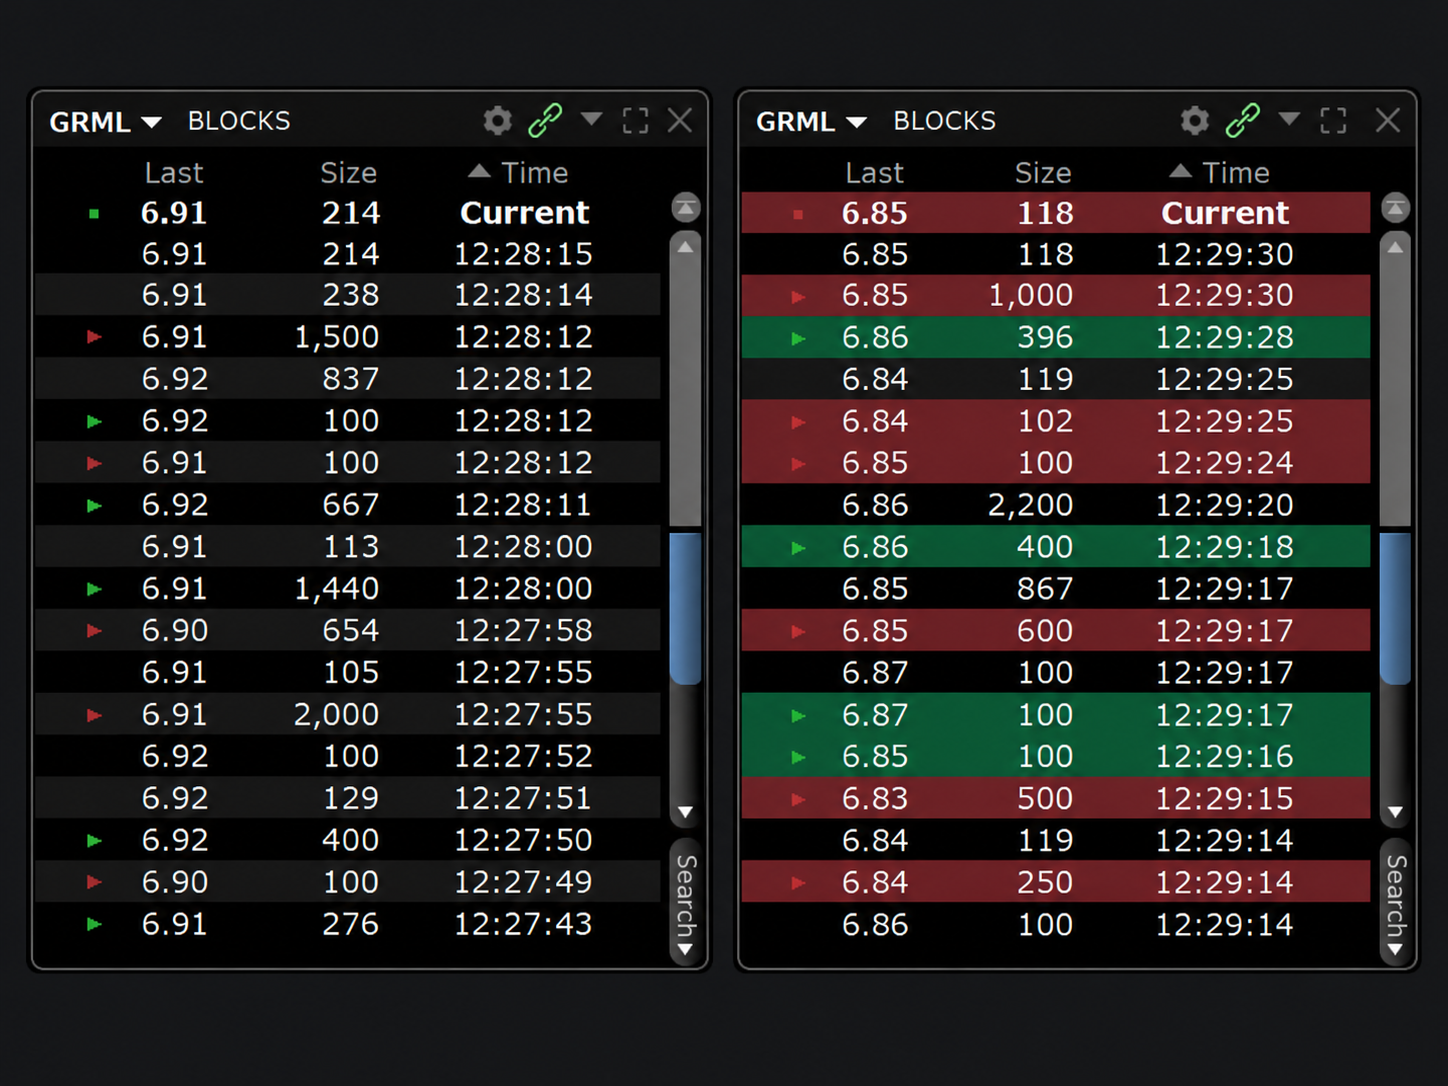
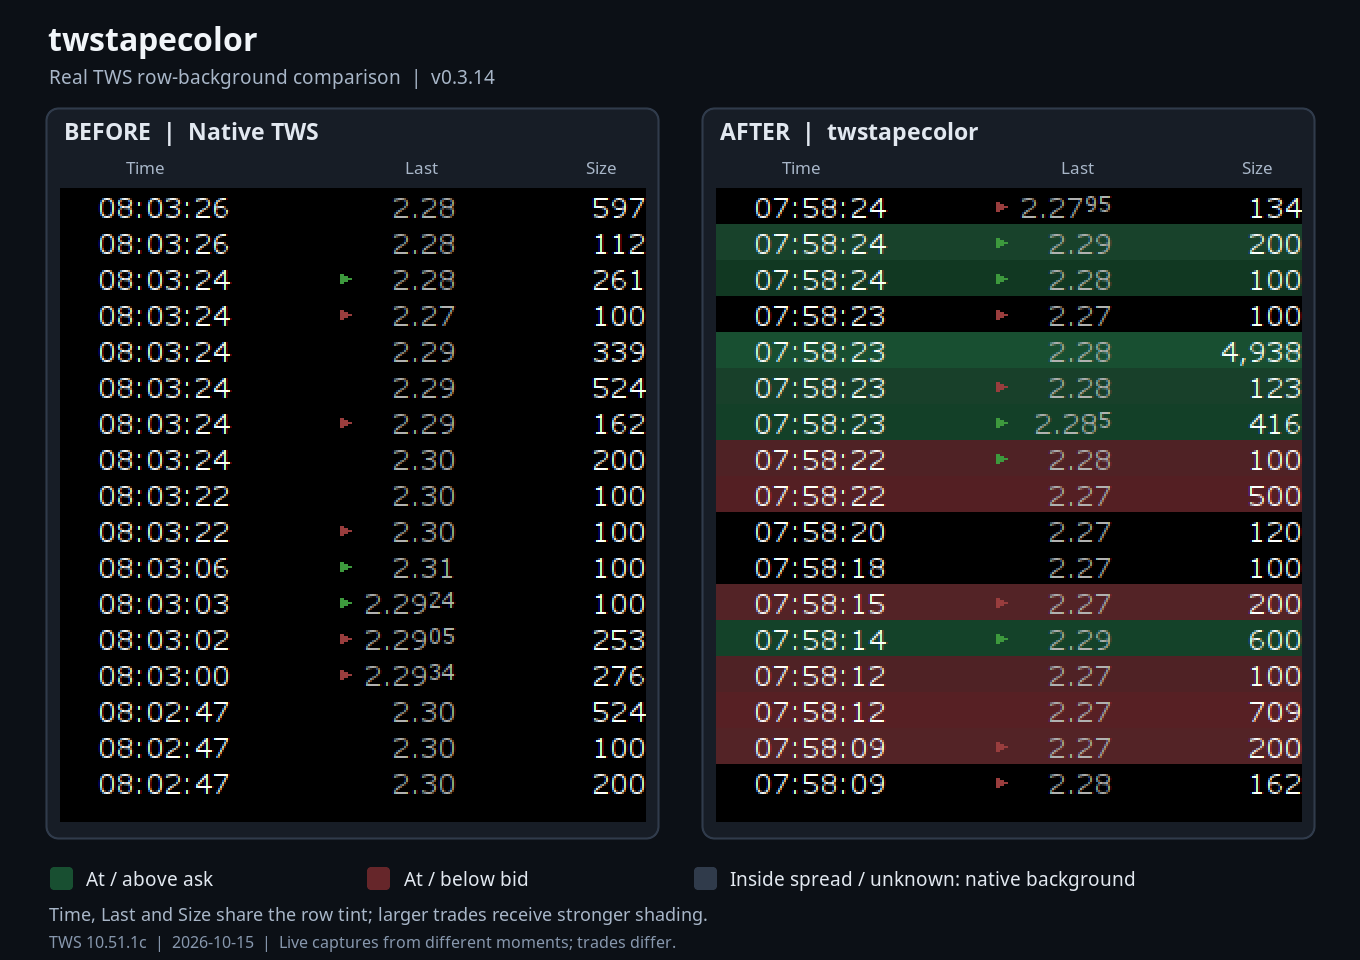
Replace main comparison graphic with verified before-and-after TWS captures

diff --git a/README.md b/README.md
@@ -6,13 +6,11 @@ Experimental Time & Sales **row backgrounds** for Interactive Brokers Trader Wor
 
 Actual screen captures from TWS 10.51.1c on 2026-10-15, with only **Time, Last and Size** visible.
 
-| Native TWS — agent stopped | twstapecolor v0.3.14 — enabled |
-| :---: | :---: |
-| ![Native TWS tape with no row background coloring](docs/screenshots/tws-native-v0.3.14.png) | ![TWS tape with red bid-side and green ask-side full-row backgrounds](docs/screenshots/tws-colored-v0.3.14.png) |
+![Before and after: native TWS beside twstapecolor v0.3.14, showing full-row bid/ask backgrounds](twstapecolor.png)
 
 Green marks trades at or above the captured ask; red marks trades at or below the captured bid. Inside-spread and unknown trades keep their native background. Larger trades receive stronger shading across all three columns.
 
-The tape was live, so these captures show different moments and different trades. The images are unaltered, tape-only screen captures; the left image also verifies that `stop` restores the native appearance.
+The tape was live, so these captures show different moments and different trades. The graphic uses the original tape-only captures, enlarged 2× without changing their pixels; the left image also verifies that `stop` restores the native appearance.
 
 ## Behavior
 
